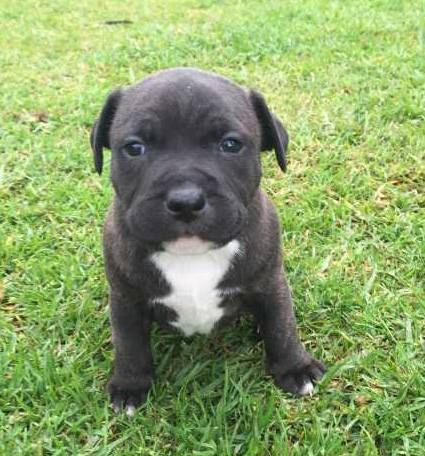
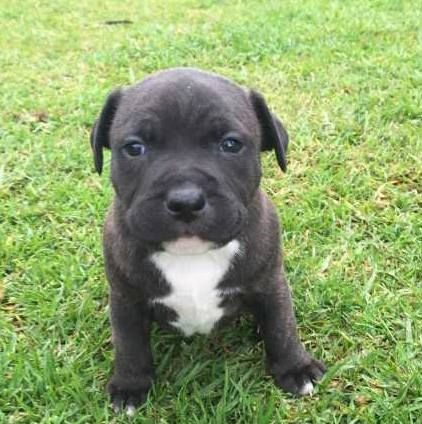
image edits

diff --git a/index.html b/index.html
@@ -52,7 +52,7 @@
                             <div class="row"><hr></div>
                             <div class="row" >
                                 <div class="col-md-12" >
-                                    <img id = "homeIMG" src="assets/images/staffies.jpg" alt="Cute litte staffy"  class="float-left">
+                                    <img id = "homeIMG" src="assets/images/staffies.jpg" alt="Cute litte staffy"  class="img-fluid float-left">
                                     <p>Lorem ipsum dolor sit amet, consectetur adipiscing elit.
                                         Vestibulum sed dictum tortor, ut pretium justo. Proin ut mattis turpis,
                                         sed gravida odio. In at leo porta ligula cursus pellentesque. Lorem ipsum dolor sit amet, consectetur adipiscing elit.

diff --git a/portfolio.html b/portfolio.html
@@ -17,7 +17,7 @@
 <body>
 
     <nav class="navbar navbar-expand-lg navbar-light">
-        <a class="navbar-brand" href="index.html">MyWebsite</a>
+        <a class="navbar-brand" href="index.html">Staffies!!</a>
         <button class="navbar-toggler" type="button" data-toggle="collapse" data-target="#navbarSupportedContent" aria-controls="navbarSupportedContent" aria-expanded="false" aria-label="Toggle navigation">
           <span class="navbar-toggler-icon"></span>
         </button>

diff --git a/contact.html b/contact.html
@@ -16,7 +16,7 @@
 <body>
     
     <nav class="navbar navbar-expand-lg navbar-light">
-        <a class="navbar-brand" href="#">MyWebsite</a>
+        <a class="navbar-brand" href="#">Staffies!!</a>
         <button class="navbar-toggler" type="button" data-toggle="collapse" data-target="#navbarSupportedContent" aria-controls="navbarSupportedContent" aria-expanded="false" aria-label="Toggle navigation">
           <span class="navbar-toggler-icon"></span>
         </button>
